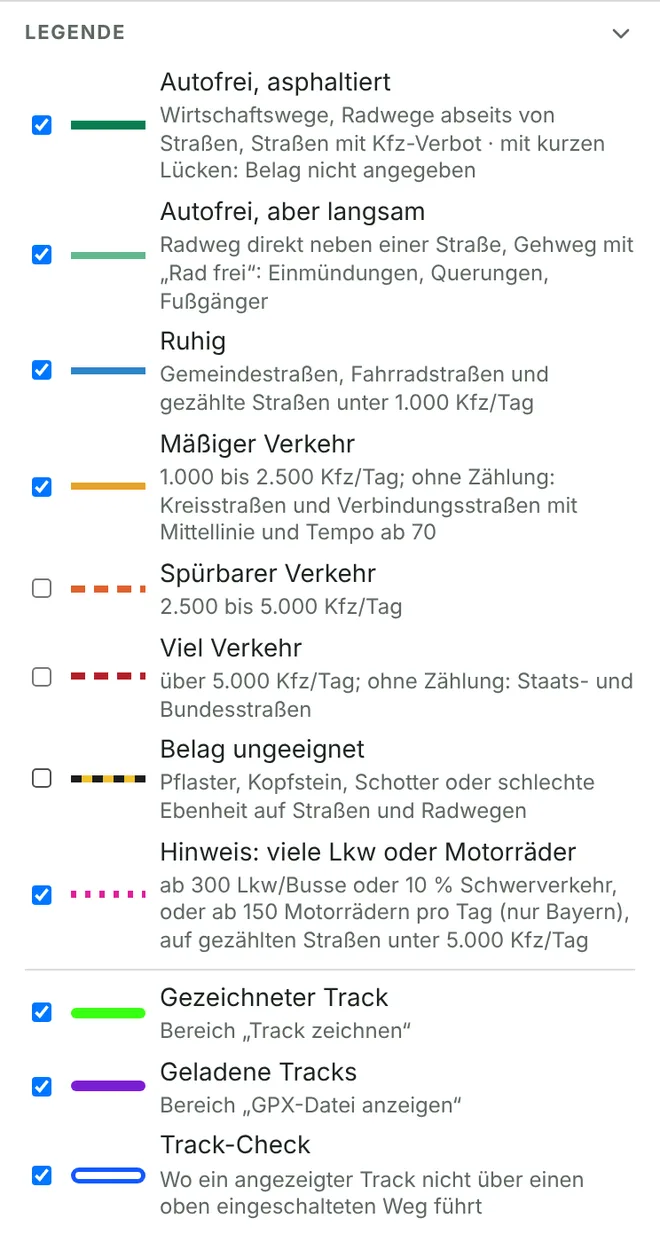
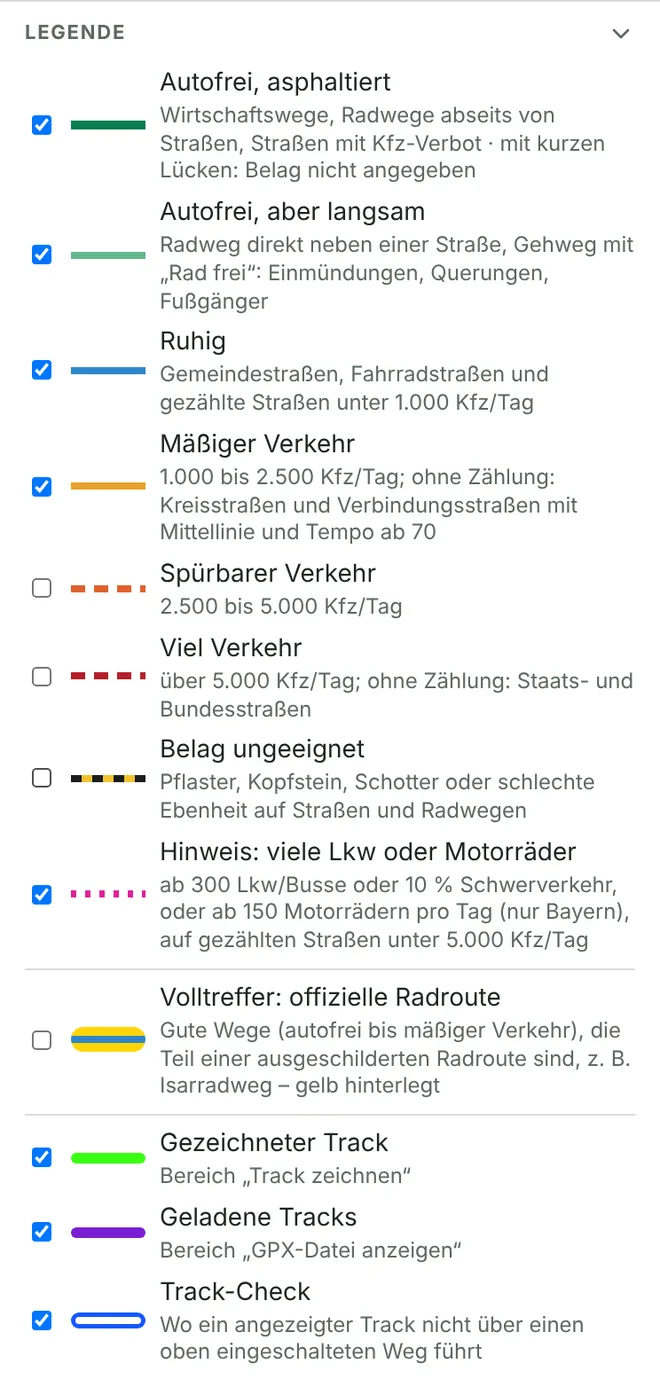
Volltreffer: gute Wege auf offiziellen Radrouten gelb hinterlegt (per Legende einschaltbar)
Radrouten-Relationen aus OpenStreetMap, Zwischenspeicher Version 3,
Popup nennt die Route, Selbsttest und Anleitung ergänzt.

Claude-Session: https://claude.ai/code/session_01Mg1og1EmHMLdWUFNKbLJby

diff --git a/index.html b/index.html
@@ -137,6 +137,7 @@ a.ib { text-decoration: none; box-sizing: border-box; }
 .leaflet-popup-content td:first-child { color: #666; }
 .leaflet-popup-content .warn { color: #8a2be2; font-weight: 600; }
 .leaflet-popup-content .pn { margin-top: 4px; color: #444; font-size: 12px; }
+.leaflet-popup-content .pn.rt { background: #fff3b0; color: #3d3200; padding: 3px 6px; border-radius: 4px; }
 </style>
 </head>
 <body>
@@ -267,7 +268,7 @@ const BAYSIS_WFS = 'https://gisportal-stmb.bayern.de/server/services/WFS/BAYSIS_
 const BZ_WFS = 'https://geoservices1.civis.bz.it/geoserver/p_bz-TransportNetwork/ows?service=WFS&version=2.0.0&request=GetFeature&typeNames=p_bz-TransportNetwork:Infrastructures-TrafficCounters&outputFormat=application/json&srsName=EPSG:4326';
 const BROUTER = 'https://brouter.de/brouter';
 
-const CACHE_VERSION = 2;          // 2: zusätzliche Merkmale für die Verfeinerung; Kacheln aus Version 1 werden weiter genutzt und still aufgefrischt
+const CACHE_VERSION = 3;          // 3: Radrouten; 2: Merkmale für die Verfeinerung. Ältere Kacheln werden sofort gezeigt und still aufgefrischt
 const OSM_MAX_AGE = 14 * 864e5;   // Wegdaten nach 14 Tagen im Hintergrund auffrischen
 const CNT_MAX_AGE = 180 * 864e5;  // Zählwerte ändern sich selten
 const BZ_MAX_AGE = 90 * 864e5;
@@ -459,6 +460,9 @@ const CLASSES = [
 ];
 const CLS = Object.fromEntries(CLASSES.map(c => [c.id, c]));
 const WAY_CLASSES = CLASSES.filter(c => !c.marker).map(c => c.id);
+const ROUTE_CLASSES = new Set(['1', '1b', '2', '3']);    // „Volltreffer“ nur auf guten Wegen
+const ROUTE_NET = { icn: 'international', ncn: 'national', rcn: 'regional', lcn: 'örtlich' };
+const ROUTE_COLOR = '#ffd60a';
 
 // Grundregel (unverändert seit der ersten Fassung): Belag, Kfz-Verbote, Straßenklasse
 function classifyOsm(t) {
@@ -739,7 +743,7 @@ function classifyArea(elements, features) {
       const line = bavarianLine(it.refs, it.ll[it.ll.length >> 1]);
       // Bayern: die Zähllinie ersetzt den Weg in der Anzeige. Für den Track-Check bleibt der Weg mit der Klasse
       // der Zähllinie erhalten, weil Tracks der OpenStreetMap-Geometrie folgen, nicht der Zähllinie.
-      if (line) { shadows.push({ kind: 'shadow', k: line.k, lines: [it.ll] }); continue; }
+      if (line) { shadows.push({ kind: 'shadow', k: line.k, lines: [it.ll], routes: it.el.routes }); continue; }
       withRef.push(it);
     }
     kept.push(it);
@@ -759,7 +763,10 @@ function classifyArea(elements, features) {
   for (const it of countItems) if (it.k !== '5' && countHint(it.p).any) hints.push(it);
   for (const it of kept) if (it.m && it.k !== '5' && it.k !== '6' && stationHeavy(it.m.st)) hints.push(it);
 
-  return { items: [...countItems, ...kept], shadows, hints, counted: countItems.length + viaStation };
+  // Volltreffer: gute Wege, die zu einer offiziellen Radroute gehören (in Bayern auch unter gezählten Abschnitten)
+  const routeHits = [...kept, ...shadows].filter(it => it.el ? it.el.routes : it.routes).filter(it => ROUTE_CLASSES.has(it.k));
+
+  return { items: [...countItems, ...kept], shadows, hints, routeHits, counted: countItems.length + viaStation };
 }
 
 /* ======================= 7  Datenquellen ======================= */
@@ -775,7 +782,9 @@ function overpassQuery(b) {
   way[highway~"^(path|footway|bridleway)$"][bicycle~"^(yes|designated|permissive)$"][surface~${PAVED}];
   way[highway=service][~"^(motor_vehicle|vehicle|motorcar)$"~"^(no|agricultural|forestry)"];
 );
-out tags geom;`;
+out tags geom;
+rel[route=bicycle][state!=proposed];
+out body;`;
 }
 
 const servers = OVERPASS.map(url => ({ url, host: new URL(url).hostname, ms: 3000, streak: 0, coolUntil: 0 }));
@@ -901,19 +910,34 @@ const cache = (() => {
 // Behalten werden eingestufte Wege und alle Hauptstraßen (für Einmündungen und „Radweg neben der Straße“)
 const keepWay = t => !!classifyOsm(t) || MOTOR_ROADS.test(t.highway || '');
 function packOsm(data) {
-  return data.elements.filter(el => el.type === 'way' && el.geometry && keepWay(el.tags || {})).map(el => {
+  const w = data.elements.filter(el => el.type === 'way' && el.geometry && keepWay(el.tags || {})).map(el => {
     const tags = {};
     for (const k of KEEP_TAGS) if (el.tags[k] != null) tags[k] = el.tags[k];
     const g = [];
     for (const p of el.geometry) g.push(r5(p.lat), r5(p.lon));
     return [el.id, tags, g];
   });
+  // Offizielle Radrouten: Name, Netz und die Wege dieser Kachel, die dazugehören
+  const ids = new Set(w.map(x => x[0]));
+  const r = data.elements.filter(el => el.type === 'relation' && el.tags && el.tags.route === 'bicycle').map(el => {
+    const t = el.tags;
+    return [t.name || t.ref || 'Radroute', t.network || '', (el.members || []).filter(m => m.type === 'way' && ids.has(m.ref)).map(m => m.ref)];
+  }).filter(x => x[2].length);
+  return { w, r };
 }
-function unpackOsm(arr) {
-  return { elements: arr.map(([id, tags, g]) => {
+function unpackOsm(packed) {
+  const w = Array.isArray(packed) ? packed : packed.w, r = Array.isArray(packed) ? [] : packed.r || [];
+  const routesOf = new Map();
+  for (const [name, net, ids] of r) for (const id of ids) {
+    if (!routesOf.has(id)) routesOf.set(id, []);
+    if (!routesOf.get(id).some(x => x.name === name)) routesOf.get(id).push({ name, net });
+  }
+  return { elements: w.map(([id, tags, g]) => {
     const geometry = [];
     for (let i = 0; i < g.length; i += 2) geometry.push({ lat: g[i], lon: g[i + 1] });
-    return { type: 'way', id, tags, geometry };
+    const el = { type: 'way', id, tags, geometry };
+    if (routesOf.has(id)) el.routes = routesOf.get(id);
+    return el;
   }) };
 }
 function packCnt(data) {
@@ -986,12 +1010,12 @@ function pruneTiles() {
 const cacheKey = (t, v = CACHE_VERSION) => `v${v}:z${TILE_Z}:${t.key}`;
 function saveTile(t) {
   cache.put({ key: cacheKey(t), osm: t.osmP, osmAt: t.osmAt, cnt: t.cntP, cntAt: t.cntAt }).then(updateCacheInfo);
-  cache.del(cacheKey(t, 1));
+  for (let v = 1; v < CACHE_VERSION; v++) cache.del(cacheKey(t, v));
 }
 async function loadFromCache(t) {
   t.cacheState = 'checking';
   let rec = await cache.get(cacheKey(t)), old = false;
-  if (!rec) { rec = await cache.get(cacheKey(t, 1)); old = !!rec; }   // Kachel aus der Vorversion: sofort zeigen, still auffrischen
+  for (let v = CACHE_VERSION - 1; !rec && v >= 1; v--) { rec = await cache.get(cacheKey(t, v)); old = !!rec; }   // Kachel aus einer Vorversion: sofort zeigen, still auffrischen
   if (rec && rec.osm && t.osmState !== 'done') {
     t.osmP = rec.osm; t.osm = unpackOsm(rec.osm); t.osmAt = old ? 0 : rec.osmAt; t.osmState = 'done';
     t.osmStale = old || Date.now() - rec.osmAt > OSM_MAX_AGE;
@@ -1162,6 +1186,11 @@ function addLine(it, popup) {
   line.bindPopup(popup);
   g.addLayer(line);
 }
+function addRouteHalo(it) {
+  const c = CLS[it.k];
+  groups[it.k].addLayer(L.polyline(it.lines, { color: '#d99a00', weight: c.weight + 17, opacity: 0.9, lineCap: 'round', lineJoin: 'round', interactive: false }));
+  groups[it.k].addLayer(L.polyline(it.lines, { color: ROUTE_COLOR, weight: c.weight + 12, opacity: 1, lineCap: 'round', lineJoin: 'round', interactive: false }));
+}
 function addHint(it, popup) {
   const c = CLS['7'];
   const line = L.polyline(it.lines, { color: c.col, weight: c.weight + 1, dashArray: c.dash, opacity: 1 });
@@ -1171,6 +1200,12 @@ function addHint(it, popup) {
 
 // Popups
 const notesHtml = it => [it.est, ...(it.notes || [])].filter(Boolean).map(n => `<div class="pn">${esc(n)}</div>`).join('');
+const routeHtml = it => {
+  const r = it.el && it.el.routes;
+  if (!r) return '';
+  const names = r.slice(0, 3).map(x => `„${esc(x.name)}“${ROUTE_NET[x.net] ? ' (' + ROUTE_NET[x.net] + ')' : ''}`).join(', ') + (r.length > 3 ? ' …' : '');
+  return `<div class="pn rt">${ROUTE_CLASSES.has(it.k) ? '<b>Volltreffer:</b> ' : ''}Teil der Radroute ${names}</div>`;
+};
 const osmLink = el => `<a href="https://www.openstreetmap.org/way/${el.id}" target="_blank" rel="noopener">In OpenStreetMap ansehen</a>`;
 function popupFor(it) { return it.kind === 'count' ? countPopup(it.p, it.k) : it.m ? stationPopup(it) : osmPopup(it); }
 
@@ -1179,7 +1214,7 @@ function osmPopup(it) {
   const keys = ['highway', 'ref', 'surface', 'smoothness', 'tracktype', 'maxspeed', 'lanes', 'lane_markings', 'width', 'bicycle', 'motor_vehicle', 'access', 'bicycle_road'];
   const rows = keys.filter(x => t[x]).map(x => `<tr><td>${x}</td><td>${esc(t[x])}</td></tr>`).join('');
   const estimated = !it.est && /^[345]$/.test(it.k) && /^(tertiary|secondary|primary)/.test(t.highway) ? '<div class="pn"><em>Verkehr geschätzt aus der Straßenklasse, keine Zählung vorhanden.</em></div>' : '';
-  return `<strong>${esc(t.name || t.ref || c.name)}</strong><br>${c.name}${estimated}${notesHtml(it)}<table>${rows}</table>${osmLink(it.el)}`;
+  return `<strong>${esc(t.name || t.ref || c.name)}</strong><br>${c.name}${routeHtml(it)}${estimated}${notesHtml(it)}<table>${rows}</table>${osmLink(it.el)}`;
 }
 
 function countPopup(p, k) {
@@ -1209,7 +1244,7 @@ function stationPopup(it) {
   return `<strong>${esc(t.name || t.ref || '')}</strong><br>${CLS[it.k].name} · ${esc(st.short)}${stationHeavy(st) ? '<div class="warn">viel Schwerverkehr</div>' : ''}
     <table><tr><td>Kfz pro Tag</td><td>${fmt(st.dtv)}</td></tr><tr><td>Lkw und Busse</td><td>${svPart}</td></tr>
     <tr><td>Zählstelle</td><td>${esc(st.road)}${st.place ? ' ' + esc(st.place) : ''}, ${(m.d / 1000).toFixed(1).replace('.', ',')} km entfernt</td></tr></table>
-    <div class="pn">${how}</div>${notesHtml(it)}<small>Quelle: ${esc(st.src)}</small><br>${osmLink(it.el)}`;
+    ${routeHtml(it)}<div class="pn">${how}</div>${notesHtml(it)}<small>Quelle: ${esc(st.src)}</small><br>${osmLink(it.el)}`;
 }
 
 let renderTimer = null;
@@ -1235,12 +1270,15 @@ function renderView() {
   const res = classifyArea(...mergeTiles(needed));
   const n = Object.fromEntries(CLASSES.map(c => [c.id, 0]));
   res.items.sort((a, b) => CLS[a.k].order - CLS[b.k].order);
+  const showRoutes = !!prefs.get('routes');
+  if (showRoutes) for (const it of res.routeHits) addRouteHalo(it);   // zuerst, damit der Leuchtrand unter allen Linien liegt
   for (const it of res.items) { addLine(it, () => popupFor(it)); n[it.k]++; }
   for (const it of res.hints) { addHint(it, () => popupFor(it)); n['7']++; }
   const osmDone = needed.filter(t => t.osmState === 'done').length, cntDone = needed.filter(t => t.cntState === 'done').length;
   const complete = osmDone === needed.length && cntDone === needed.length;
   setStatus(`Autofrei ${n['1']} · langsam ${n['1b']} · ruhig ${n['2']} · mäßig ${n['3']} · spürbar ${n['4']} · viel ${n['5']} · Belag ungeeignet ${n['6']}. `
     + (res.counted ? `${res.counted} Abschnitte mit Zählwerten.` : (cntDone ? 'Keine Zählwerte in diesem Ausschnitt; Verkehr aus der Straßenklasse geschätzt.' : ''))
+    + (showRoutes ? ` ${res.routeHits.length} Volltreffer auf Radrouten.` : '')
     + (complete ? '' : ' Wird noch vervollständigt …'));
 }
 
@@ -1710,6 +1748,9 @@ function initLegend() {
       scheduleCheck(0);
     });
   }
+  row('routesOn', `background:linear-gradient(${CLS['2'].col},${CLS['2'].col}) center/100% 4px no-repeat, ${ROUTE_COLOR};height:14px;border-radius:7px`,
+    'Volltreffer: offizielle Radroute', 'Gute Wege (autofrei bis mäßiger Verkehr), die Teil einer ausgeschilderten Radroute sind, z. B. Isarradweg – gelb hinterlegt',
+    !!prefs.get('routes'), on => { prefs.set({ routes: on }); renderView(); }, true);
   row('trkDraw', `background:${cssVar('--draw')};height:6px;border-radius:3px`, 'Gezeichneter Track', 'Bereich „Track zeichnen“', show.draw, on => setShow('draw', on), true);
   row('trkGpx', `background:${cssVar('--gpx')};height:6px;border-radius:3px`, 'Geladene Tracks', 'Bereich „GPX-Datei anzeigen“', show.gpx, on => setShow('gpx', on));
   row('trkCheck', `background:#fff;height:9px;border-radius:5px;box-shadow:inset 0 0 0 2.5px ${cssVar('--chk')}`, 'Track-Check',
@@ -1888,6 +1929,10 @@ function selfTest() {
   eq('Zählstelle vor der Einmündung', kOf(area2, 12), '2');
   eq('Zählstelle hinter der Einmündung (nicht die nähere)', kOf(area2, 13), '5');
   eq('Zuordnung über den Straßenzug', (area2.items.find(i => i.el && i.el.id === 13) || {}).m?.via, 'road');
+  // Volltreffer auf Radrouten
+  const rw = (id, tags) => Object.assign(way(id, tags, along(48.01, 11, 11.01)), { routes: [{ name: 'Isarradweg', net: 'rcn' }] });
+  const area3 = classifyArea([rw(21, { highway: 'track', surface: 'asphalt' }), rw(22, { highway: 'secondary' }), way(23, { highway: 'unclassified' }, along(48.02, 11, 11.01))], []);
+  eq('Volltreffer: guter Weg auf Radroute', area3.routeHits.map(i => i.el.id), [21]);
   // Track-Check
   const grid = new SegGrid();
   for (const it of area1.items) for (const ll of it.lines) grid.addLine(ll, it);

diff --git a/anleitung.html b/anleitung.html
@@ -347,6 +347,7 @@ footer img { width: 40px; margin: 0 auto 10px; border-radius: 22%; }
     <div><i class="dash" style="--x:var(--c4)"></i><div><b>Spürbarer Verkehr</b><span>2.500 bis 5.000 Autos am Tag. Für kurze Verbindungsstücke okay.</span></div></div>
     <div><i class="dash" style="--x:var(--c5)"></i><div><b>Viel Verkehr</b><span>Über 5.000 Autos am Tag – Staats- und Bundesstraßen. Wenn möglich meiden.</span></div></div>
     <div><i style="background:repeating-linear-gradient(90deg,var(--c6a) 0 8px,var(--c6b) 8px 16px)"></i><div><b>Belag ungeeignet</b><span>Pflaster, Kopfstein, Schotter oder holpriger Asphalt.</span></div></div>
+    <div><i style="background:linear-gradient(var(--c2),var(--c2)) center/100% 4px no-repeat,#ffd60a;height:16px;border-radius:8px;box-shadow:0 0 0 2px #d99a00"></i><div><b>Volltreffer: offizielle Radroute</b><span>Zum Einschalten in der Legende. Ein guter Weg – autofrei bis mäßiger Verkehr –, der zugleich zu einer ausgeschilderten Radroute gehört, etwa zum Isarradweg. Er bekommt einen gelben Leuchtrand, seine Farbe bleibt. Ein Klick auf den Weg nennt die Route.</span></div></div>
     <div><i style="background:repeating-linear-gradient(90deg,var(--hint) 0 4px,transparent 4px 10px);height:4px"></i><div><b>Hinweis: viele Lkw oder Motorräder</b><span>Liegt als dünne Linie über anderen Farben. Die Straße ist vielleicht ruhig, aber laut oder einschüchternd.</span></div></div>
   </div>
 </section>
@@ -358,7 +359,7 @@ footer img { width: 40px; margin: 0 auto 10px; border-radius: 22%; }
   <ol class="steps">
     <li><strong>Gegend ansteuern</strong>Zoome heran, bis die Zoomanzeige grün ist. Schiebe die Karte an deinen Startort.</li>
     <li><strong>Festlegen, was erlaubt ist</strong>Entferne in der Legende die Häkchen bei allem, was du nicht fahren willst. Für eine ganz ruhige Runde sind das „Spürbarer Verkehr“, „Viel Verkehr“ und „Belag ungeeignet“. Wer auch Radwege an der Straße meiden will, schaltet zusätzlich „Autofrei, aber langsam“ aus. Was übrig bleibt, ist dein Wegenetz.
-      <figure class="small"><div class="frame"><img src="anleitung/legende.webp" width="660" height="1242" alt="Legende mit ausgeschalteten Klassen „Spürbarer Verkehr“ und „Viel Verkehr“" loading="lazy" style="max-height:520px;object-fit:cover;object-position:top"></div><figcaption>Jedes Häkchen ist ein Schalter.</figcaption></figure>
+      <figure class="small"><div class="frame"><img src="anleitung/legende.webp" width="660" height="1387" alt="Legende mit ausgeschalteten Klassen „Spürbarer Verkehr“ und „Viel Verkehr“" loading="lazy" style="max-height:520px;object-fit:cover;object-position:top"></div><figcaption>Jedes Häkchen ist ein Schalter.</figcaption></figure>
     </li>
     <li><strong>Zeichnen einschalten</strong>Klicke unter „Track zeichnen“ auf den Stift; er wird dunkelgrün. Wähle in der Liste daneben „Straßen folgen: Rennrad, sehr wenig Verkehr“.
       <figure class="small"><div class="frame"><img src="anleitung/zeichnen-panel.webp" width="660" height="514" alt="Bereich Track zeichnen mit Stift, Auswahl, Zurück, Löschen, Name und Speichern" loading="lazy"></div><figcaption>Stift · Routenart · Zurück · Löschen · Name · Speichern</figcaption></figure>
@@ -414,6 +415,7 @@ footer img { width: 40px; margin: 0 auto 10px; border-radius: 22%; }
     <div class="card"><h4><kbd>Leertaste</kbd> halten</h4><p>Blendet alle Tracks kurz aus, damit du die Wege darunter siehst. Loslassen zeigt sie wieder.</p></div>
     <div class="card"><h4>Augen-Schalter</h4><p>Der Knopf unten links blendet die Tracks per Klick aus und wieder ein. Gedrückt halten wirkt wie die Leertaste.</p></div>
     <div class="card"><h4>Sonntagsrunde</h4><p>In Bayern zeigt das Fenster einer gezählten Straße, wie viel Verkehr dort am Sonntag fährt, im Vergleich zum Durchschnitt.</p></div>
+    <div class="card"><h4>Volltreffer suchen</h4><p>Hake in der Legende „Volltreffer: offizielle Radroute“ an. Gelb hinterlegte Wege sind ruhig und zugleich ausgeschildert – ideal als Rückgrat einer Runde.</p></div>
     <div class="card"><h4>Merkt sich alles</h4><p>Die App öffnet dort, wo du aufgehört hast, und mit deinen Legenden-Einstellungen.</p></div>
     <div class="card"><h4>Wird immer schneller</h4><p>Einmal geladene Gegenden speichert die App und zeigt sie beim nächsten Mal sofort.</p></div>
     <div class="card"><h4>Platz schaffen</h4><p>Jeder Bereich im Panel lässt sich einzeln einklappen, das ganze Panel mit dem Pfeil oben rechts.</p></div>

diff --git a/sw.js b/sw.js
@@ -2,7 +2,7 @@
 // Programmdateien: zuerst aus dem Netz (damit Aktualisierungen sofort ankommen), ohne Netz aus dem Vorrat.
 // Leaflet vom CDN: aus dem Vorrat. Wegdaten, Zählungen und Routing laufen immer direkt übers Netz;
 // die Wegdaten speichert die Seite selbst (IndexedDB).
-const VERSION = 'rh-4';
+const VERSION = 'rh-5';
 const APP = ['./', 'index.html', 'manifest.webmanifest', 'icons/icon.svg', 'icons/icon-192.png', 'icons/icon-512.png',
   'anleitung.html', 'anleitung/gpxliste.webp', 'anleitung/kopf.webp', 'anleitung/legende.webp', 'anleitung/planen-nachher.webp', 'anleitung/planen-vorher.webp', 'anleitung/pruefen-popup.webp', 'anleitung/pruefen.webp', 'anleitung/uebersicht.webp', 'anleitung/zeichnen-panel.webp'];
 const LIB = [
